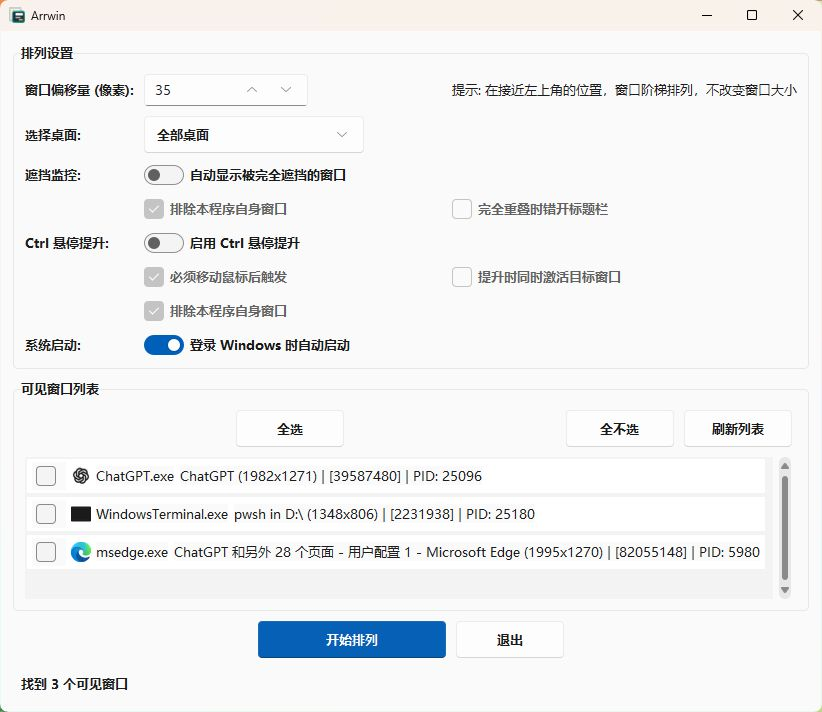
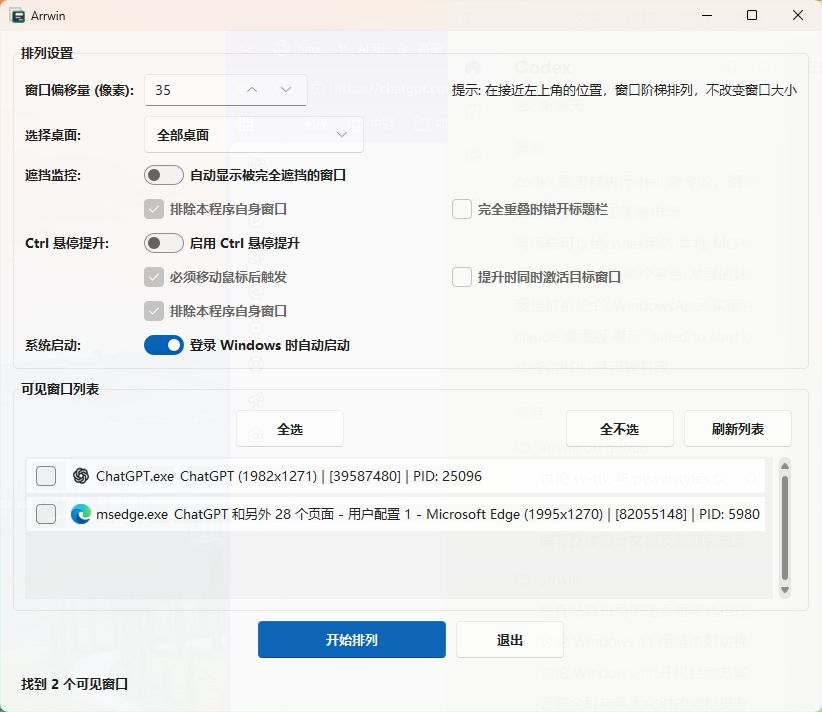
增加实验性客户区 Mica 透明度
实现内容：新增 experimental_client_mica 配置，Windows 11 下通过整体 0.97 透明度让客户区透出 Mica，关闭配置后恢复不透明，并更新截图与说明。

验证结果：9 项测试通过；分层窗口透明度确认为 247/255；配置开关两种路径验证成功；PyInstaller onefile 重新构建并启动检查通过。

Changed region(s): [[0.0608, 0.7107, 0.9428, 0.8034], [0.517, 0.7725, 0.9124, 0.8034]]

diff --git a/ui_theme.py b/ui_theme.py
@@ -27,6 +27,7 @@ THEME_PREFERENCES = ("system", "light", "dark")
 DWMWA_BORDER_COLOR = 34
 DWMWA_CAPTION_COLOR = 35
 DWMWA_COLOR_NONE = 0xFFFFFFFE
+EXPERIMENTAL_CLIENT_MICA_ALPHA = 0.97
 
 PALETTES = {
     "light": {
@@ -499,6 +500,9 @@ def apply_native_window_style(root):
         mode = getattr(root, "_arrwin_theme_mode", "light")
         palette = get_theme_palette(root)
         hwnd = get_tk_window_handle(root)
+        client_mica_enabled = bool(
+            getattr(root, "_arrwin_client_mica_enabled", False)
+        )
 
         if version.build >= 22000:
             mica_applied = False
@@ -530,6 +534,14 @@ def apply_native_window_style(root):
             pywinstyles.change_title_color(
                 root,
                 palette["titlebar_text"],
+            )
+            root.wm_attributes(
+                "-alpha",
+                (
+                    EXPERIMENTAL_CLIENT_MICA_ALPHA
+                    if client_mica_enabled
+                    else 1.0
+                ),
             )
         else:
             pywinstyles.apply_style(

diff --git a/config_manager.py b/config_manager.py
@@ -17,6 +17,7 @@ DEFAULT_CONFIG = {
     "ctrl_move_required": True,
     "ctrl_move_raise_activate": False,
     "ctrl_move_raise_exclude_self": True,
+    "experimental_client_mica": True,
 }
 
 
@@ -168,3 +169,9 @@ class ConfigManager:
 
     def set_ctrl_move_raise_exclude_self(self, enabled):
         self._set_bool("ctrl_move_raise_exclude_self", enabled)
+
+    def get_experimental_client_mica(self):
+        return self._get_bool("experimental_client_mica")
+
+    def set_experimental_client_mica(self, enabled):
+        self._set_bool("experimental_client_mica", enabled)

diff --git a/arrange_windows_gui.py b/arrange_windows_gui.py
@@ -306,6 +306,9 @@ class WindowArranger:
 
     def setup_ui(self):
         """初始化界面"""
+        self.root._arrwin_client_mica_enabled = (
+            self.config_manager.get_experimental_client_mica()
+        )
         self.theme_mode = apply_app_theme(
             self.root,
             self.theme_preference,

diff --git a/README.md b/README.md
@@ -16,6 +16,7 @@
 - 🖱 按住 Ctrl 后移动鼠标，可将鼠标下的普通窗口提升到最前
 - 💾 自动保存窗口大小和设置到可编辑的 `config.json`
 - 🎨 基于 Sun Valley 主题的 Windows 11 风格界面，支持系统明暗模式
+- 🪟 Windows 11 Mica 框架，可选实验性客户区半透明效果
 - 📥 最小化或关闭时隐藏到系统托盘，后台监控继续运行
 - 🚀 可选择登录 Windows 时自动启动，并静默驻留系统托盘
 
@@ -152,6 +153,7 @@ copy config.json dist\config.json
 - 遮挡监控、完全重叠错开和自身窗口排除
 - Ctrl 悬停提升、必须移动触发、提升时激活和自身窗口排除
 - 自动保存：界面修改设置或调整窗口大小时写回该文件
+- 实验性客户区 Mica：`experimental_client_mica`，仅 Windows 11 生效
 - 手动修改：关闭程序后编辑 `config.json`，下次启动生效
 - 缺少配置项时自动使用内置默认值；JSON 格式错误时保留原文件并回退默认值
 
